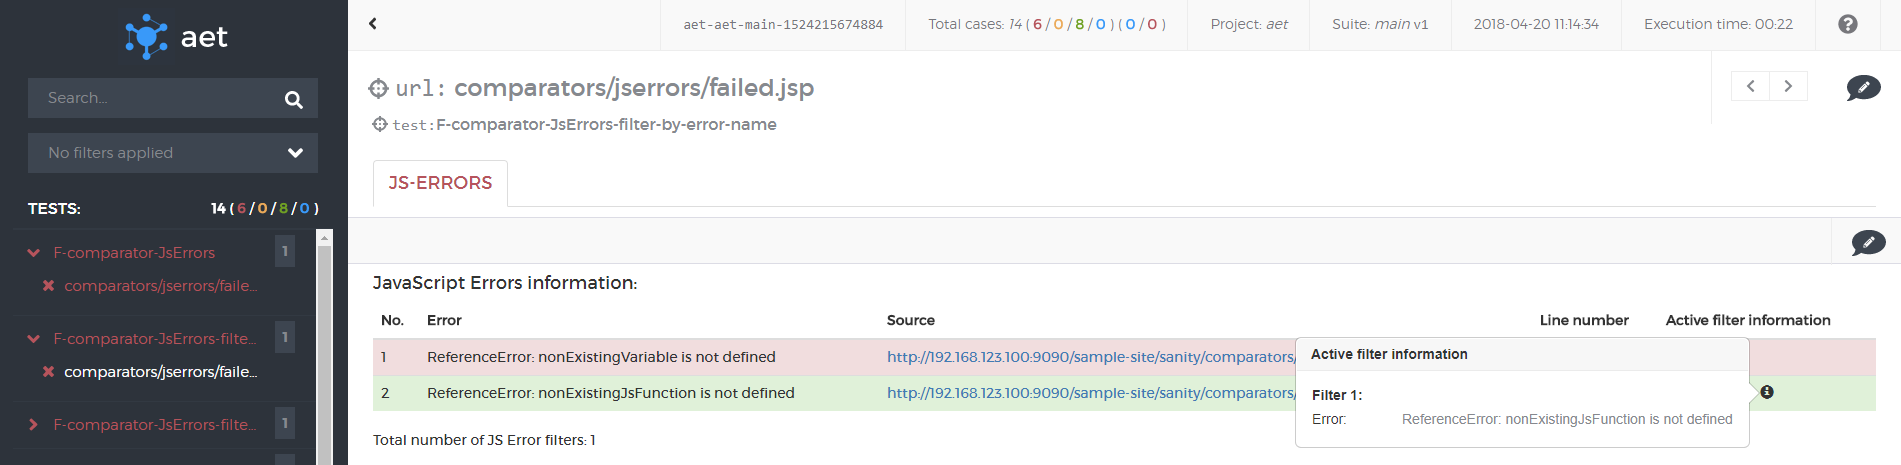
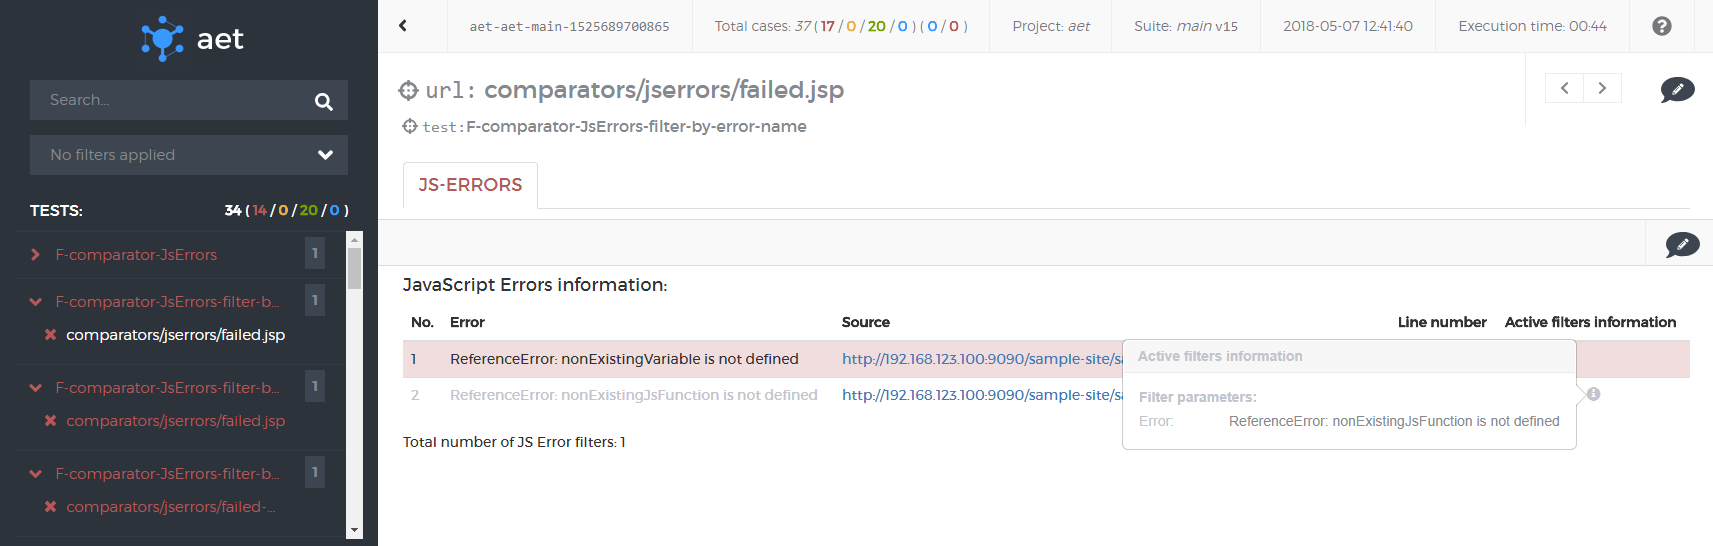
Colors and labels (#253)
* color changed for ignored JS errors and status codes

* labels change for JS errors filters

* adding missing change for excluded status code (for success)

* screenshots update

* adding comment for test suite status codes case

* removing not needed 'track by' from angular template

diff --git a/report/src/main/webapp/assets/css/main.css b/report/src/main/webapp/assets/css/main.css
@@ -4146,139 +4146,142 @@ input[type=text]::-webkit-input-placeholder { color: #85898e; }
 
 /* AET  Copyright (C) 2013 Cognifide Limited  Licensed under the Apache License, Version 2.0 (the "License"); you may not use this file except in compliance with the License. You may obtain a copy of the License at  http://www.apache.org/licenses/LICENSE-2.0  Unless required by applicable law or agreed to in writing, software distributed under the License is distributed on an "AS IS" BASIS, WITHOUT WARRANTIES OR CONDITIONS OF ANY KIND, either express or implied. See the License for the specific language governing permissions and limitations under the License. */
 /* line 18, ../sass/_test.scss */
+.ignored { color: #c4c4cc; }
+
+/* line 22, ../sass/_test.scss */
 .tab-content { margin-top: 10px; z-index: 1; }
 
-/* line 23, ../sass/_test.scss */
+/* line 27, ../sass/_test.scss */
 .tab-content-toolbar { -webkit-transition: left, 0.3s; -o-transition: left, 0.3s; transition: left, 0.3s; width: calc(100% + 50px); height: 47px; margin: 0 -25px 10px -25px; background: #f9f9f9; border: solid #dcdce5; border-width: 1px 0; z-index: 1; }
-/* line 33, ../sass/_test.scss */
+/* line 37, ../sass/_test.scss */
 .tab-content-toolbar-header { font-family: "montserratlight", sans-serif; color: #77777c; font-size: 11px; display: inline-block; padding: 0 20px; line-height: 30px; border-right: solid 1px #dcdce5; margin-top: 5px; }
 
-/* line 45, ../sass/_test.scss */
-.checkboxes-inline { display: inline-block; margin: 0 0 20px 11px; }
 /* line 49, ../sass/_test.scss */
+.checkboxes-inline { display: inline-block; margin: 0 0 20px 11px; }
+/* line 53, ../sass/_test.scss */
 .checkboxes-inline .checkbox { display: inline-block; margin-bottom: 20px; }
 
-/* line 55, ../sass/_test.scss */
-.checkbox { position: relative; width: 150px; }
 /* line 59, ../sass/_test.scss */
+.checkbox { position: relative; width: 150px; }
+/* line 63, ../sass/_test.scss */
 .checkbox label { cursor: pointer; position: absolute; width: 18px; height: 18px; left: 4px; top: 4px; background: #ffffff; border: solid 1px #000000; }
-/* line 69, ../sass/_test.scss */
+/* line 73, ../sass/_test.scss */
 .checkbox label span { position: absolute; width: 150px; left: 30px; }
-/* line 75, ../sass/_test.scss */
+/* line 79, ../sass/_test.scss */
 .checkbox label:after { opacity: 0; content: ''; top: 2px; left: 3px; position: absolute; width: 14px; height: 14px; background: #0097fe; }
-/* line 87, ../sass/_test.scss */
+/* line 91, ../sass/_test.scss */
 .checkbox input[type=checkbox] { opacity: 0; }
-/* line 90, ../sass/_test.scss */
+/* line 94, ../sass/_test.scss */
 .checkbox input[type=checkbox]:checked + label:after { opacity: 1; }
 
 /* Nav tabs
 */
-/* line 101, ../sass/_test.scss */
+/* line 105, ../sass/_test.scss */
 .menu-expanded .tabs { left: 370px; width: calc(100% - 370px); padding-left: 0; }
 
-/* line 108, ../sass/_test.scss */
+/* line 112, ../sass/_test.scss */
 .tabs { -webkit-transition: left, 0.3s; -o-transition: left, 0.3s; transition: left, 0.3s; display: table; background: #ffffff; position: fixed; left: 20px; top: 124px; width: 100%; z-index: 5; }
 
-/* line 121, ../sass/_test.scss */
+/* line 125, ../sass/_test.scss */
 .menu-expanded .nav-tabs-wrapper { width: calc(100vw - 400px); max-width: none; padding-right: 100px; }
 
-/* line 128, ../sass/_test.scss */
+/* line 132, ../sass/_test.scss */
 .nav-tabs-wrapper { max-width: calc(100% - 100px); padding-right: 30px; overflow: auto; position: relative; }
 
-/* line 135, ../sass/_test.scss */
+/* line 139, ../sass/_test.scss */
 .navbar-controls { position: absolute; right: 20px; top: -9px; }
 
 /* Layout comparison
 */
-/* line 145, ../sass/_test.scss */
+/* line 149, ../sass/_test.scss */
 .layout-compare-item { position: relative; width: 50%; text-align: center; padding: 0 15px; }
-/* line 151, ../sass/_test.scss */
+/* line 155, ../sass/_test.scss */
 .layout-compare-item .mask-container { position: relative; }
-/* line 156, ../sass/_test.scss */
+/* line 160, ../sass/_test.scss */
 .layout-compare-item .mask-container:hover .mask { display: none !important; }
-/* line 162, ../sass/_test.scss */
+/* line 166, ../sass/_test.scss */
 .layout-compare-item .mask { position: absolute; top: 0; display: none; -webkit-filter: drop-shadow(5px 5px 5px #222); filter: drop-shadow(5px 5px 5px #222); }
-/* line 169, ../sass/_test.scss */
+/* line 173, ../sass/_test.scss */
 .layout-compare-item .mask.is-visible { display: block; }
-/* line 176, ../sass/_test.scss */
+/* line 180, ../sass/_test.scss */
 .layout-compare-description { padding: 10px 0; font-size: 20px; color: #85898e; }
 
 /* Source codes
 */
-/* line 186, ../sass/_test.scss */
+/* line 190, ../sass/_test.scss */
 .diff-report table { table-layout: fixed; }
-/* line 189, ../sass/_test.scss */
-.diff-report table thead { position: relative; display: block; }
 /* line 193, ../sass/_test.scss */
+.diff-report table thead { position: relative; display: block; }
+/* line 197, ../sass/_test.scss */
 .diff-report table tbody { white-space: nowrap; font-size: 11px; display: block; height: 500px; overflow: auto; }
-/* line 203, ../sass/_test.scss */
+/* line 207, ../sass/_test.scss */
 .diff-report table.table-w3c thead { border: 1px solid #ddd; }
-/* line 205, ../sass/_test.scss */
+/* line 209, ../sass/_test.scss */
 .diff-report table.table-w3c thead th { border-bottom: 0 none; }
-/* line 213, ../sass/_test.scss */
+/* line 217, ../sass/_test.scss */
 .diff-report table.table-w3c th.num, .diff-report table.table-w3c td.num { width: 50px; display: block; }
-/* line 219, ../sass/_test.scss */
-.diff-report table.table-w3c td.code { white-space: normal; }
 /* line 223, ../sass/_test.scss */
+.diff-report table.table-w3c td.code { white-space: normal; }
+/* line 227, ../sass/_test.scss */
 .diff-report table.table-w3c tbody { height: auto; font-size: 14px; }
-/* line 231, ../sass/_test.scss */
-.diff-report table th.num { min-width: 50px; }
 /* line 235, ../sass/_test.scss */
+.diff-report table th.num { min-width: 50px; }
+/* line 239, ../sass/_test.scss */
 .diff-report table th.code { width: 100%; }
-/* line 240, ../sass/_test.scss */
-.diff-report table td.code { min-width: 100px; white-space: pre-wrap; }
 /* line 244, ../sass/_test.scss */
+.diff-report table td.code { min-width: 100px; white-space: pre-wrap; }
+/* line 248, ../sass/_test.scss */
 .diff-report table td.code.code { width: 100%; }
-/* line 247, ../sass/_test.scss */
-.diff-report table td.code.code p { margin: 0; }
 /* line 251, ../sass/_test.scss */
+.diff-report table td.code.code p { margin: 0; }
+/* line 255, ../sass/_test.scss */
 .diff-report table td.code.code span, .diff-report table td.code.code small { white-space: normal; }
-/* line 257, ../sass/_test.scss */
+/* line 261, ../sass/_test.scss */
 .diff-report table td.code.num { min-width: 50px; }
 
-/* line 263, ../sass/_test.scss */
+/* line 267, ../sass/_test.scss */
 .w3c-error { white-space: nowrap; }
-/* line 266, ../sass/_test.scss */
+/* line 270, ../sass/_test.scss */
 .w3c-error span, .w3c-error mark { padding: 0; }
 
-/* line 274, ../sass/_test.scss */
-tr.no-change { background: #ffffff; }
 /* line 278, ../sass/_test.scss */
+tr.no-change { background: #ffffff; }
+/* line 282, ../sass/_test.scss */
 tr.insert, tr.info, tr.notice { background: #d9edf7; }
-/* line 284, ../sass/_test.scss */
-tr.change { background: #fcf8e3; }
 /* line 288, ../sass/_test.scss */
-tr.warn { background: #faf2cc; }
+tr.change { background: #fcf8e3; }
 /* line 292, ../sass/_test.scss */
+tr.warn { background: #faf2cc; }
+/* line 296, ../sass/_test.scss */
 tr.delete, tr.err, tr.error { background: #f2dede; }
-/* line 298, ../sass/_test.scss */
+/* line 302, ../sass/_test.scss */
 tr.divider-row { font-weight: 700; background-color: #f9f9f9; }
 
-/* line 306, ../sass/_test.scss */
-.tab-content .tab-pane { display: none; }
 /* line 310, ../sass/_test.scss */
+.tab-content .tab-pane { display: none; }
+/* line 314, ../sass/_test.scss */
 .tab-content .active { display: block; }
 
 /* performance table
 */
-/* line 319, ../sass/_test.scss */
+/* line 323, ../sass/_test.scss */
 .performance-table { margin-top: 0; }
-/* line 322, ../sass/_test.scss */
-.performance-table .nav-tabs { width: 400px; float: left; }
 /* line 326, ../sass/_test.scss */
+.performance-table .nav-tabs { width: 400px; float: left; }
+/* line 330, ../sass/_test.scss */
 .performance-table .nav-tabs li { display: block; float: none; }
 
-/* line 333, ../sass/_test.scss */
+/* line 337, ../sass/_test.scss */
 .tab-content-performance { margin-top: 0; }
 
-/* line 337, ../sass/_test.scss */
+/* line 341, ../sass/_test.scss */
 .links-list { margin-top: 10px; padding-top: 10px; border-top: solid 1px #dcdce5; }
-/* line 342, ../sass/_test.scss */
+/* line 346, ../sass/_test.scss */
 .links-list a { display: block; color: #77777c; }
 
-/* line 351, ../sass/_test.scss */
-.label-A { background-color: #5cb85c !important; }
 /* line 355, ../sass/_test.scss */
+.label-A { background-color: #5cb85c !important; }
+/* line 359, ../sass/_test.scss */
 .label-F { background-color: #d9534f !important; }
 
 /* AET  Copyright (C) 2013 Cognifide Limited  Licensed under the Apache License, Version 2.0 (the "License"); you may not use this file except in compliance with the License. You may obtain a copy of the License at  http://www.apache.org/licenses/LICENSE-2.0  Unless required by applicable law or agreed to in writing, software distributed under the License is distributed on an "AS IS" BASIS, WITHOUT WARRANTIES OR CONDITIONS OF ANY KIND, either express or implied. See the License for the specific language governing permissions and limitations under the License. */

diff --git a/report/src/main/webapp/app/layout/main/url/reports/status-codes.html b/report/src/main/webapp/app/layout/main/url/reports/status-codes.html
@@ -41,7 +41,7 @@
         Excluded status codes:
       </td>
     </tr>
-    <tr class="success"
+    <tr class="ignored"
         ng-repeat="item in case.result.excludedStatusCodes | filter: {code: case.comparator.parameters.filterCodes}"
         ng-if="case.comparator.parameters.showExcluded && case.comparator.parameters.filterCodes">
       <td>{{$index+1}}</td>
@@ -65,7 +65,7 @@
         Excluded status codes:
       </td>
     </tr>
-    <tr class="success" ng-repeat="item in case.result.excludedStatusCodes"
+    <tr class="ignored" ng-repeat="item in case.result.excludedStatusCodes"
         ng-if="case.comparator.parameters.showExcluded && !case.comparator.parameters.filterCodes && case.result.excludedStatusCodes.length > 0">
       <td>{{$index+1}}</td>
       <td>{{item.code}}</td>

diff --git a/report/src/main/webapp/app/layout/main/url/reports/js-errors.html b/report/src/main/webapp/app/layout/main/url/reports/js-errors.html
@@ -38,12 +38,12 @@
         <th>Error</th>
         <th>Source</th>
         <th>Line number</th>
-        <th>Active filter information</th>
+        <th>Active filters information</th>
       </tr>
       </thead>
       <tbody>
       <tr ng-repeat="item in case.result track by $index"
-          ng-class="{ 'success': item.ignored, 'error': !item.ignored }">
+          ng-class="{ 'ignored': item.ignored, 'error': !item.ignored }">
         <td>{{$index+1}}</td>
         <td>{{item.errorMessage}}</td>
         <td>

diff --git a/report/src/main/webapp/app/layout/main/url/filterInformation/filterInformation.content.html b/report/src/main/webapp/app/layout/main/url/filterInformation/filterInformation.content.html
@@ -19,8 +19,8 @@
 -->
 <div class="filterInfo-wrapper">
   <div class="filterInfo"
-       ng-repeat="filter in item.matchingFilters track by $index">
-    <div class="filterInfo-title">Filter {{$index+1}}:</div>
+       ng-repeat="filter in item.matchingFilters">
+    <div class="filterInfo-title">Filter parameters:</div>
     <table>
       <tbody>
       <tr class="filterInfo-parameter"

diff --git a/report/src/main/webapp/app/layout/main/url/filterInformation/filterInformation.icon.html b/report/src/main/webapp/app/layout/main/url/filterInformation/filterInformation.icon.html
@@ -22,6 +22,6 @@
      data-popover-class="filterInfo-popover"
      data-popover-placement="left"
      data-popover-trigger="outsideClick"
-     data-popover-title="Active filter information"
+     data-popover-title="Active filters information"
      ng-if="item.ignored">
 </div>

diff --git a/report/src/main/webapp/assets/sass/_test.scss b/report/src/main/webapp/assets/sass/_test.scss
@@ -15,6 +15,10 @@
  * See the License for the specific language governing permissions and
  * limitations under the License.
  */
+.ignored {
+  color: $gray_disabled;
+}
+
 .tab-content {
   margin-top: 10px;
   z-index: 1;
